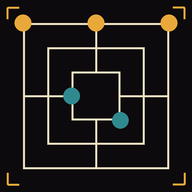
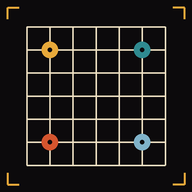
Umbenennung in Konsole, Wechsel-Rückfrage, Versionshinweis
Claude-Session: https://claude.ai/code/session_01TrWHR58GDJ7dcn8TxNSGT7

Changed region(s): [[0.0625, 0.0625, 0.9375, 0.9062]]

diff --git a/index.html b/index.html
@@ -6,11 +6,11 @@
 <meta name="theme-color" content="#0c0a0c">
 <meta name="apple-mobile-web-app-capable" content="yes">
 <meta name="apple-mobile-web-app-status-bar-style" content="black-translucent">
-<meta name="apple-mobile-web-app-title" content="Mühle">
+<meta name="apple-mobile-web-app-title" content="Konsole">
 <link rel="manifest" href="./manifest.json">
 <link rel="icon" href="./icon-192.png">
 <link rel="apple-touch-icon" href="./icon-192.png">
-<title>Mühle</title>
+<title>Konsole</title>
 <style>
   :root{
     --schwarz:#0c0a0c; --schwarz2:#151216; --elf:#f0e2c4; --elf-40:rgba(240,226,196,.4); --elf-15:rgba(240,226,196,.15); --rot:#b8322a;
@@ -104,6 +104,8 @@
   .link.back{padding:0 0 14px;display:block}
   .phead{display:flex;justify-content:space-between;align-items:center;margin-bottom:14px}
   .phead h2{margin:0;font-weight:500;font-size:16px;letter-spacing:.3em}
+  #confirm .panel h2{margin:0 0 18px;font-weight:500;font-size:16px;letter-spacing:.2em;line-height:1.5}
+  #confirm .panel{max-width:360px;margin-top:12vh}
   #rulesBody p{margin:0 0 10px;line-height:1.5;font-size:13px}
   #rulesBody p b{color:var(--akzent-text);font-weight:500}
   @media (prefers-reduced-motion:reduce){ #hud .msg::after,#hud.pulse{animation:none} #bar{display:none} }
@@ -112,7 +114,7 @@
 <body>
 <div class="frame">
 <header>
-  <h1 id="title">MÜHLE<small id="subtitle">SPIELESAMMLUNG</small></h1>
+  <h1 id="title">KONSOLE<small id="subtitle">SPIELESAMMLUNG</small></h1>
   <div class="btns">
     <button id="undoBtn" title="Rückgängig" disabled>◀ Zug</button>
     <button id="soundBtn" title="Ton">Ton an</button>
@@ -126,7 +128,7 @@
 <div id="menu" class="overlay" role="dialog" aria-modal="true" aria-labelledby="menuTitle">
   <div class="panel" id="selectView">
     <span class="corner tl"></span><span class="corner tr"></span><span class="corner bl"></span><span class="corner br"></span>
-    <h1>SPIELE<small>SPIELESAMMLUNG</small></h1>
+    <h1>KONSOLE<small>SPIELESAMMLUNG</small></h1>
     <div class="tiles" id="tiles"></div>
     <button class="link" id="selResume" hidden>Weiterspielen</button>
   </div>
@@ -148,6 +150,14 @@
     </div>
     <div id="stats"><span>BILANZ GEGEN COMPUTER: <b id="statW">0</b> Siege | <b id="statD">0</b> Remis | <b id="statL">0</b> Niederlagen</span><button id="statReset">zurücksetzen</button></div>
     <button class="link" id="rulesBtn">Regeln</button>
+  </div>
+</div>
+
+<div id="confirm" class="overlay" role="alertdialog" aria-modal="true" aria-labelledby="confirmTitle">
+  <div class="panel">
+    <span class="corner tl"></span><span class="corner tr"></span><span class="corner bl"></span><span class="corner br"></span>
+    <h2 id="confirmTitle">LAUFENDE PARTIE BEENDEN?</h2>
+    <div class="actions"><button class="big" id="confirmYes">Beenden</button><button class="big" id="confirmNo">Zurück</button></div>
   </div>
 </div>
 
@@ -293,15 +303,28 @@ function openRules(){
   $('rules').classList.add('open'); $('rulesClose').focus();
 }
 function closeRules(){ $('rules').classList.remove('open'); $('rulesBtn').focus(); }
+// Rückfrage, wenn eine Partie läuft: erst nach "Beenden" wird die Aktion ausgeführt
+let pendingConfirm=null;
+function confirmEnd(action){
+  if(!(started&&!over)){ action(); return; }
+  pendingConfirm=action; $('confirm').classList.add('open'); $('confirmNo').focus();
+}
+function closeConfirm(){ $('confirm').classList.remove('open'); pendingConfirm=null; }
+// Versionshinweis: einmalig, wenn ein neuer Service Worker eine bereits installierte Version abgelöst hat
+function noteNewVersion(){ if(started&&!over){ store.set('newVersion',true); return; } store.del('newVersion'); hooks.hudRow(''); hooks.hud('Neue Version geladen.'); }
 
 (function init(){
   buildTiles();
   $('soundBtn').textContent=soundOn?'Ton an':'Ton aus';
   $('menuBtn').addEventListener('click',()=>openMenu(game?'game':'select'));
-  $('tiles').addEventListener('click',e=>{ const t=e.target.closest('.tile'); if(!t) return; if(t.dataset.g!==gameId) loadGame(t.dataset.g); showGameMenu(); });
+  $('tiles').addEventListener('click',e=>{ const t=e.target.closest('.tile'); if(!t) return; const id=t.dataset.g;
+    if(id===gameId){ showGameMenu(); return; }
+    confirmEnd(()=>{ loadGame(id); showGameMenu(); }); });
+  $('confirmYes').addEventListener('click',()=>{ const a=pendingConfirm; closeConfirm(); if(a) a(); });
+  $('confirmNo').addEventListener('click',closeConfirm);
   $('selResume').addEventListener('click',closeMenu);
   $('backBtn').addEventListener('click',showSelect);
-  $('newBtn').addEventListener('click',()=>{ newGame(); closeMenu(); });
+  $('newBtn').addEventListener('click',()=>confirmEnd(()=>{ newGame(); closeMenu(); }));
   $('resumeBtn').addEventListener('click',closeMenu);
   $('undoBtn').addEventListener('click',()=>{ if(game) game.undo(); refreshUndo(); });
   $('modeAi').addEventListener('click',()=>{ settings.mode='ai'; saveSettings(); updateMenu(); });
@@ -314,13 +337,19 @@ function closeRules(){ $('rules').classList.remove('open'); $('rulesBtn').focus(
   $('rulesClose').addEventListener('click',closeRules);
   document.addEventListener('keydown',e=>{
     if(e.key!=='Escape') return;
-    if($('rules').classList.contains('open')) closeRules();
+    if($('confirm').classList.contains('open')) closeConfirm();
+    else if($('rules').classList.contains('open')) closeRules();
     else if($('menu').classList.contains('open')&&started&&!over) closeMenu();
   });
   hooks.hud('Spiel im Menü wählen.');
   const last=store.get('lastGame',null);
   if(last&&GAMES[last]){ loadGame(last); openMenu('game'); } else openMenu('select');
-  if('serviceWorker' in navigator) navigator.serviceWorker.register('./sw.js').catch(()=>{});
+  if(store.get('newVersion',false)) noteNewVersion();
+  if('serviceWorker' in navigator){
+    let controlled=!!navigator.serviceWorker.controller; // erste Installation ist keine Aktualisierung
+    navigator.serviceWorker.addEventListener('controllerchange',()=>{ if(controlled) noteNewVersion(); controlled=true; });
+    navigator.serviceWorker.register('./sw.js').catch(()=>{});
+  }
 })();
 </script>
 </body>

diff --git a/sw.js b/sw.js
@@ -1,6 +1,6 @@
 // Bei jeder Änderung an der App diese Versionsnummer hochzählen,
 // sonst behalten installierte Geräte die alte Version im Cache.
-const CACHE = 'muehle-v4';
+const CACHE = 'muehle-v5';
 const FILES = ['./', './index.html', './games/muehle.js', './games/vier-gewinnt.js', './manifest.json', './icon-192.png', './icon-512.png', './icon-512-maskable.png'];
 
 self.addEventListener('install', e => {
@@ -11,7 +11,11 @@ self.addEventListener('activate', e => {
 });
 self.addEventListener('fetch', e => {
   e.respondWith(
-    fetch(e.request).then(r => { const copy = r.clone(); caches.open(CACHE).then(c => c.put(e.request, copy)); return r; })
+    fetch(e.request).then(r => {
+      // Ein bereits abgelöster Worker schreibt nicht mehr in den Cache, sonst bleibt sein alter Cache neben dem neuen liegen.
+      if (!(self.serviceWorker && self.serviceWorker.state === 'redundant')) { const copy = r.clone(); caches.open(CACHE).then(c => c.put(e.request, copy)); }
+      return r;
+    })
       .catch(() => caches.match(e.request, { ignoreSearch: true }))
   );
 });

diff --git a/CLAUDE.md b/CLAUDE.md
@@ -1,6 +1,6 @@
-# CLAUDE.md - Mühle (PWA)
+# CLAUDE.md - Konsole (PWA)
 
-Privates Hobbyprojekt von Florian. Installierbare Web-App (GitHub Pages), Spielesammlung: aktuell Mühle und Vier gewinnt. App-Name bleibt "Mühle".
+Privates Hobbyprojekt von Florian. Installierbare Web-App (GitHub Pages), Spielesammlung "Konsole": aktuell Mühle und Vier gewinnt. App-Name (Manifest, Titel, Spielauswahl) ist "Konsole"; Pfad `/muehle/`, Repo-Name, Cache-Präfix `muehle-v<n>` und localStorage-Präfix `muehle:` bleiben aus Kompatibilitätsgründen, damit installierte Geräte nichts migrieren müssen.
 Live: https://floriananalytics.github.io/muehle/
 
 ## Sprache und Stil
@@ -14,9 +14,9 @@ Live: https://floriananalytics.github.io/muehle/
   - `index.html` - Hülle: Spielauswahl, Startmenü, Header, HUD, Ton/Vibration, Bilanz, localStorage, Service-Worker-Registrierung. Kein spielspezifischer Code.
   - `games/muehle.js` - Mühle (Brettmodell, Regeln, KI, SVG-Brett, Animationen).
   - `games/vier-gewinnt.js` - Vier gewinnt; dieselbe Datei läuft bei Schwer als Web Worker und unter Node.
-- `manifest.json`, `sw.js` (Service Worker, Netz zuerst mit Cache-Rückfall; `FILES` enthält beide Module), Icons `icon-192.png`, `icon-512.png`, `icon-512-maskable.png`.
+- `manifest.json` (Name "Konsole"), `sw.js` (Service Worker, Netz zuerst mit Cache-Rückfall; `FILES` enthält beide Module), Icons `icon-192.png`, `icon-512.png`, `icon-512-maskable.png`: 7x7-Raster in Elfenbein auf Schwarz, darauf vier Steine in Senf, Petrol, Zinnober und Nebelblau mit dunklem Kern, Eckklammern in Senf (nicht auf dem maskable-Icon, das einen Sicherheitsrand von 22 % hat). Erzeugt mit Pillow, Skript nicht im Repo. Das Mühle-Motiv gibt es nur noch als Kachelvorschau.
 - Alle Pfade relativ (`./`), weil die App unter `/muehle/` liegt, nicht im Root.
-- Speicherung nur in `localStorage` unter dem Präfix `muehle:`: `settings:<spiel-id>` (mode/level/starter), `stats:<spiel-id>` (w/d/l), `sound`, `lastGame`. Alte Schlüssel `stats` und `settings` werden beim Start einmalig nach `:muehle` migriert. Keine Server, kein Tracking.
+- Speicherung nur in `localStorage` unter dem Präfix `muehle:`: `settings:<spiel-id>` (mode/level/starter), `stats:<spiel-id>` (w/d/l), `sound`, `lastGame`, `newVersion` (Merker für den Versionshinweis). Alte Schlüssel `stats` und `settings` werden beim Start einmalig nach `:muehle` migriert. Keine Server, kein Tracking.
 
 ## Schnittstelle der Spielmodule
 - Ein Objekt je Datei unter `window.GAMES[id]`; unter Node exportiert `module.exports` die Logikfunktionen für Prüfungen.
@@ -71,7 +71,9 @@ Live: https://floriananalytics.github.io/muehle/
 - Monospace-Schrift für alles, Koordinatenring A-G / 1-7, Eckklammern in Senf, Scanlinien-Overlay.
 - Bewegung sparsam: nur als Antwort auf Aktionen (Zug, Mühle, Schlag), `prefers-reduced-motion` respektieren.
 - Touch-Ziele mindestens 44 px; Hit-Kreise im SVG bleiben groß (r=6 im 100er-Viewbox).
-- Startmenü (`#menu`, Overlay im Bordcomputer-Stil): oberste Ebene Spielauswahl (Titel "SPIELE", Kacheln); danach je Spiel: Link "Zurück zur Spielauswahl", Titel, große Schaltflächen "Gegen Computer" | "Zwei Spieler" (Modus, gewählter in Senf), Segmente Stärke (nur bei Computer) und Anfang ("Ich" | "Computer" bzw. "Senf" | "Petrol"), "Weiterspielen" (nur bei laufender Partie) und "Neue Partie", Bilanz mit "zurücksetzen", Link "Regeln". Modus und Anfang wirken erst bei "Neue Partie", Stärke sofort. Header im Spiel zeigt Name und Untertitel des aktiven Spiels aus `meta` und die Knöpfe "◀ Zug", "Ton an/aus", "Menü". Beim Start öffnet sich das Menü des zuletzt gespielten Spiels, sonst die Spielauswahl. Escape schließt Regeln bzw. das Menü (nur bei laufender Partie). Unter dem Brett steht nur das HUD.
+- Startmenü (`#menu`, Overlay im Bordcomputer-Stil): oberste Ebene Spielauswahl (Titel "KONSOLE", Untertitel "SPIELESAMMLUNG", Kacheln); danach je Spiel: Link "Zurück zur Spielauswahl", Titel, große Schaltflächen "Gegen Computer" | "Zwei Spieler" (Modus, gewählter in Senf), Segmente Stärke (nur bei Computer) und Anfang ("Ich" | "Computer" bzw. "Senf" | "Petrol"), "Weiterspielen" (nur bei laufender Partie) und "Neue Partie", Bilanz mit "zurücksetzen", Link "Regeln". Modus und Anfang wirken erst bei "Neue Partie", Stärke sofort. Header im Spiel zeigt Name und Untertitel des aktiven Spiels aus `meta` und die Knöpfe "◀ Zug", "Ton an/aus", "Menü". Beim Start öffnet sich das Menü des zuletzt gespielten Spiels, sonst die Spielauswahl. Header ohne geladenes Spiel: "KONSOLE".
+- Rückfrage (`#confirm`, gleicher Stil): "Laufende Partie beenden?" mit "Beenden" | "Zurück" vor einem Spielwechsel und vor "Neue Partie", solange eine Partie läuft (`started && !over`); Escape wirkt wie "Zurück".
+- Versionshinweis: Löst ein neuer Service Worker einen vorhandenen ab (`controllerchange` bei bestehendem Controller), zeigt das HUD einmalig "Neue Version geladen."; läuft gerade eine Partie, wird der Hinweis über `muehle:newVersion` auf den nächsten Start verschoben. Escape schließt Regeln bzw. das Menü (nur bei laufender Partie). Unter dem Brett steht nur das HUD.
 - Regel-Overlay (`#rules`): gleicher Stil, 8 kurze Absätze, "Schließen" oben rechts.
 - Animationen, nur als Antwort auf Aktionen; `prefers-reduced-motion: reduce` schaltet alle ab (CSS) und entfernt geschlagene Steine sofort (JS `reduceMotion()`):
   - Steine sind `<g class="stone-g">` mit `style.transform=translate(x px, y px)`; `render()` verwendet Elemente je Feld wieder (`stoneEls`), Ziehen verschiebt nur das Element (Transition 180 ms ease-out), Setzen skaliert 0,6 -> 1 (120 ms, Klasse `pop`), Schlagen zerfällt (250 ms, Klasse `gone` + Elfenbein-Ring), Mühle blitzt zweimal 150 ms (Klasse `flash` auf Steinen und Mühlenlinie, `flashMill`). Rückgängig und Neustart rendern ohne Animation (`render({reset:true})`).
@@ -86,6 +88,7 @@ Live: https://floriananalytics.github.io/muehle/
 - Stärkestufen spürbar getrennt (Änderungsauftrag 1).
 - Startmenü, Animationen (Gleiten, Mühle-Blitz, Zerfall beim Schlag), Vibration, Regel-Overlay (Änderungsauftrag 2).
 - Spielesammlung: Hülle und Module, Spielauswahl, Vier gewinnt, erweiterte Palette, iPhone-Ton (Änderungsauftrag 3).
+- Umbenennung in "Konsole", neues Icon, Rückfrage beim Spielwechsel, Versionshinweis (Änderungsauftrag 4).
 
 ## Offene Punkte (Reihenfolge)
 1. Zugvorschlag (Regelerklärung als Overlay ist mit Auftrag 2 umgesetzt).

diff --git a/README.md b/README.md
@@ -1,6 +1,6 @@
-# Mühle
+# Konsole
 
-Spielesammlung als installierbare Web-App (PWA), aktuell Mühle und Vier gewinnt - gegen den Computer oder zu zweit am selben Handy.
+Spielesammlung unter https://floriananalytics.github.io/muehle/ mit Mühle und Vier gewinnt, als installierbare Web-App (PWA) - gegen den Computer oder zu zweit am selben Handy.
 
 **Spielen:** https://floriananalytics.github.io/muehle/  
 Auf dem Handy öffnen und über "Zum Startbildschirm hinzufügen" installieren. Läuft danach auch offline.
